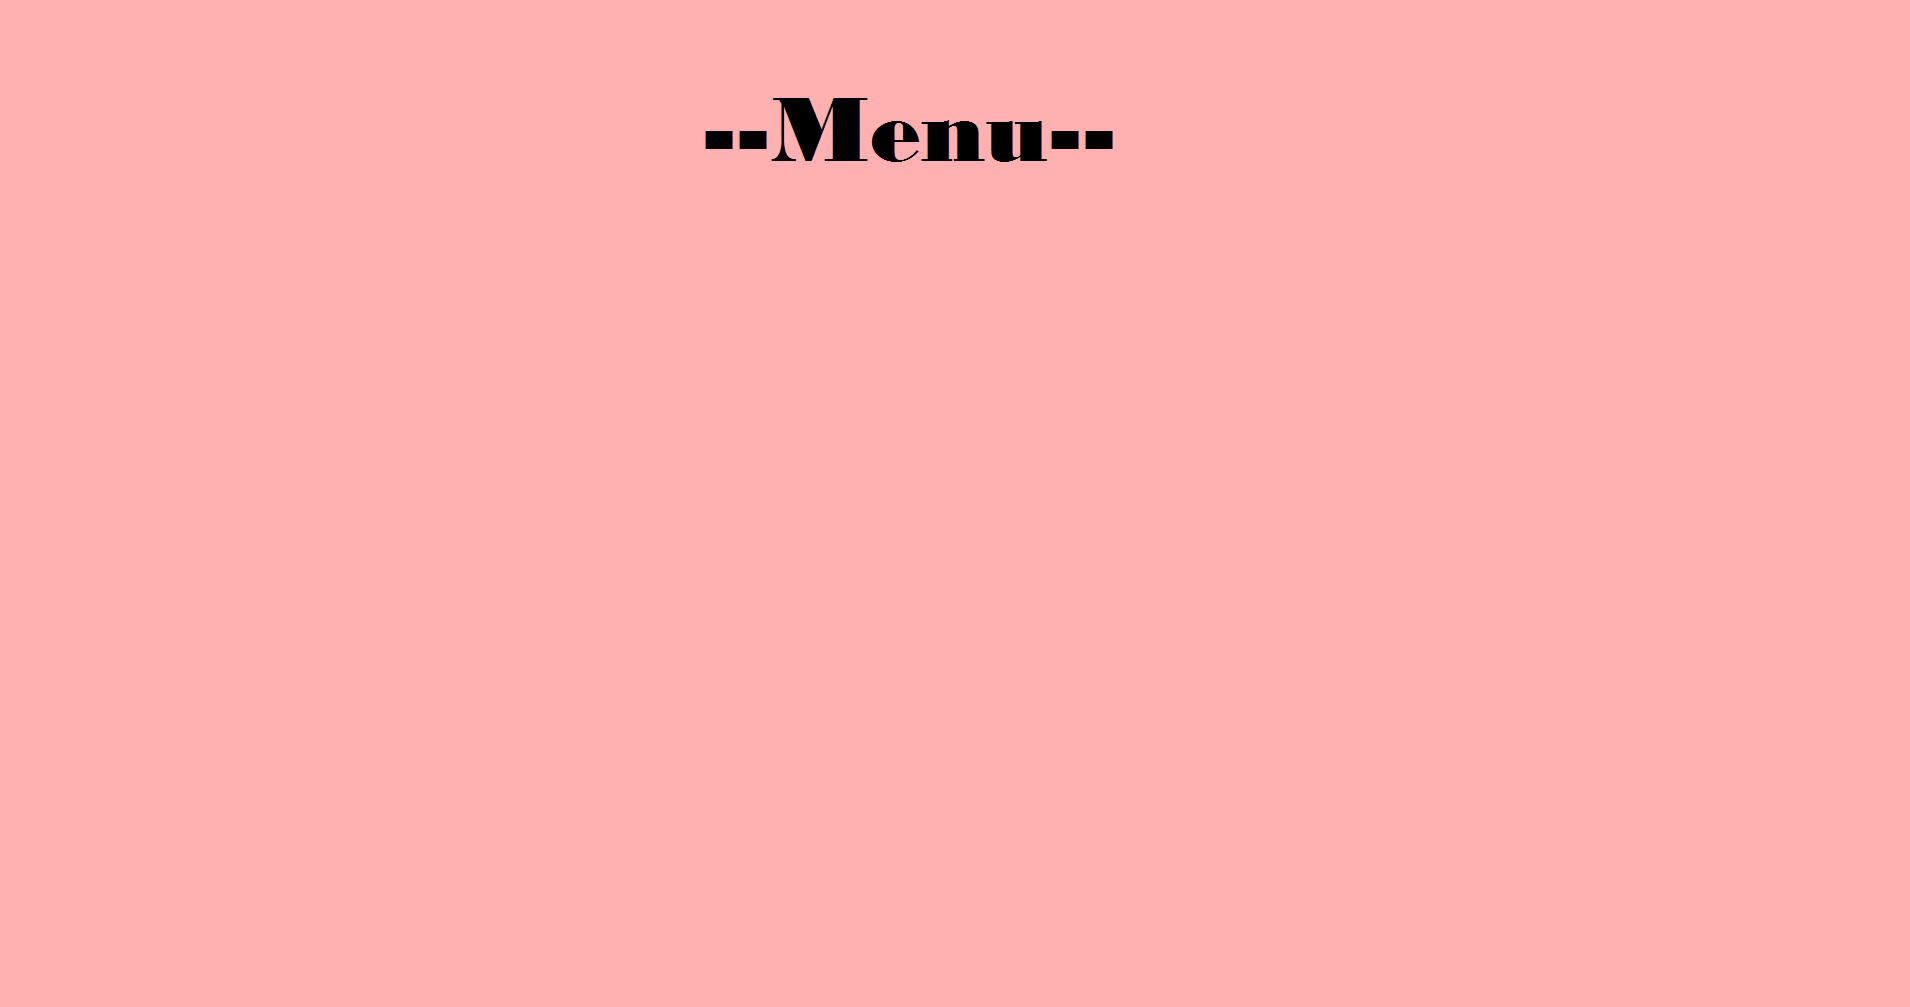
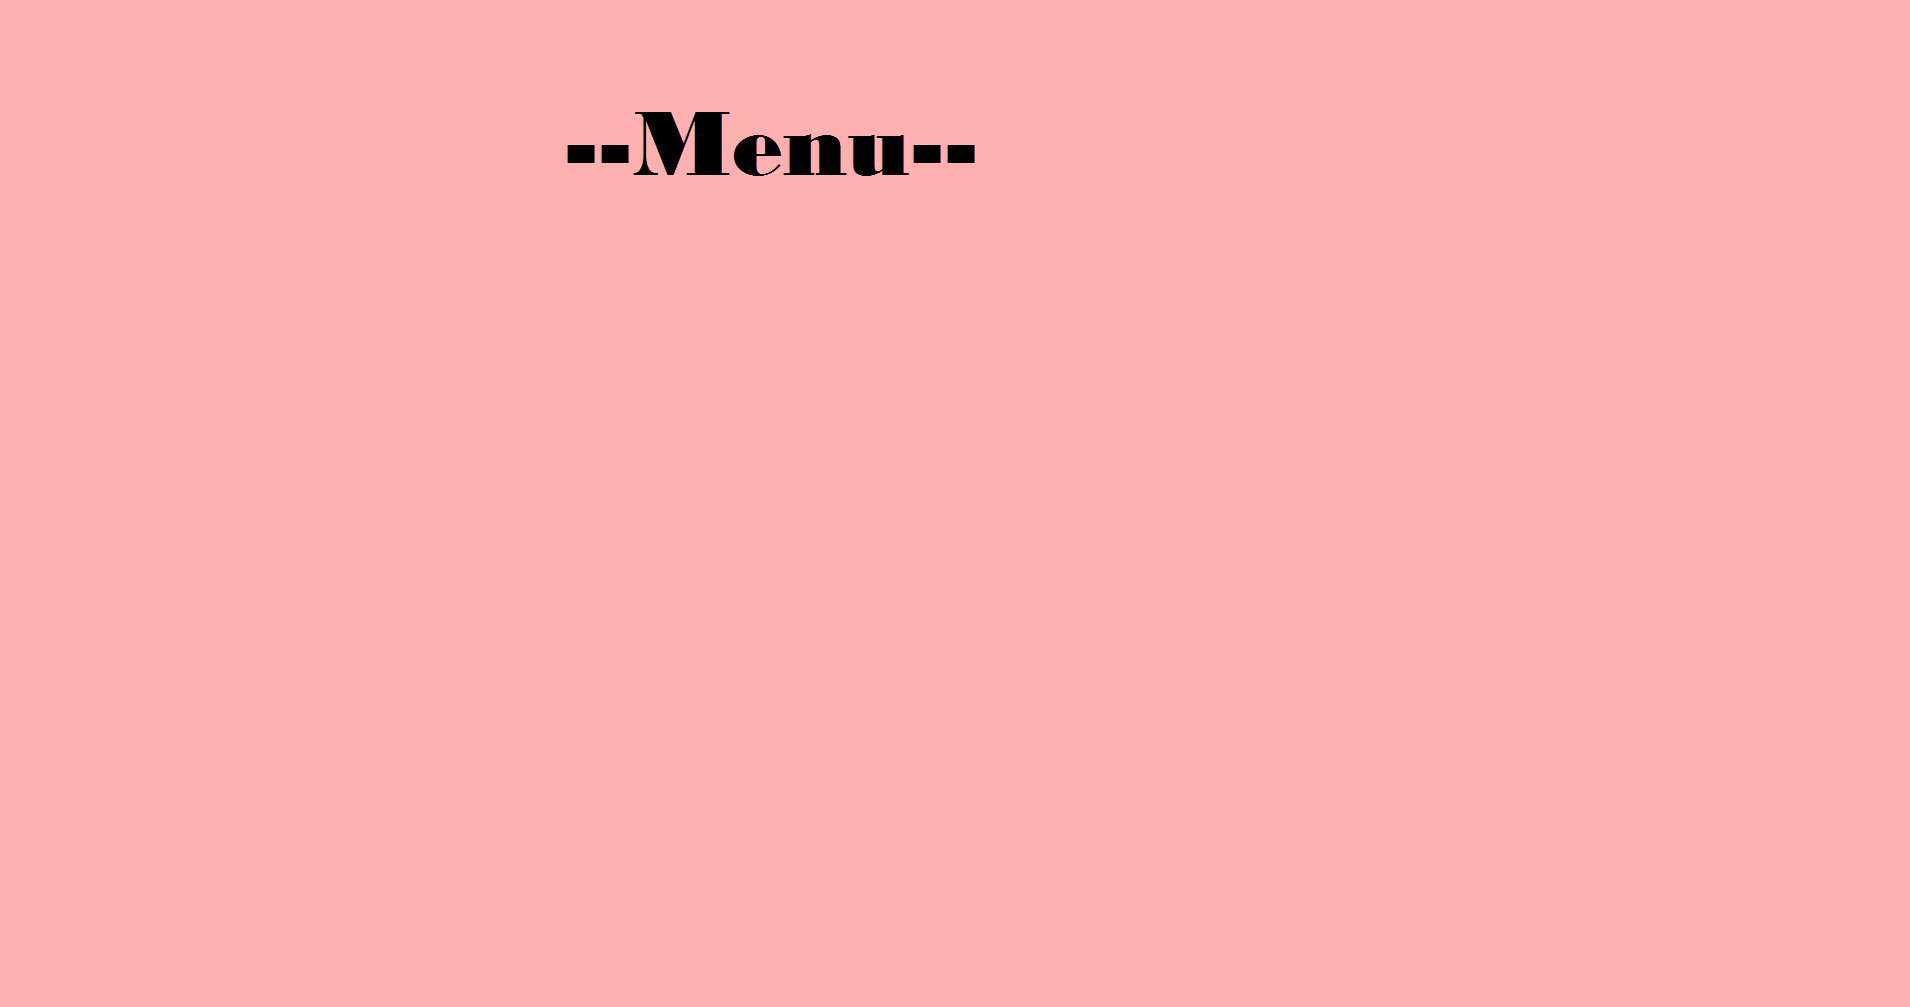
Bootjes toegevoegd

Changed region(s): [[0.278, 0.0924, 0.5869, 0.1847]]

diff --git a/Project2 verbeterd/game.py b/Project2 verbeterd/game.py
@@ -2,8 +2,8 @@ import pygame
 import functions
 pygame.init()
 
-width=1700
-height=800
+width = 1551
+height = 800
 screen=pygame.display.set_mode((width,height))
 pygame.display.update()
 
@@ -12,10 +12,10 @@ def Game():
     game=True
     while game:
         functions.insert_image('menu.png', 0,0)
-        functions.button((0, 89, 90), 800, 300, 200, 70, 'button3.png',functions.game_loop)
-        functions.button((0, 89, 90), 800, 400, 200, 70, 'button2.png',functions.rules_screen)
-        functions.button((0, 89, 90), 800, 500, 200, 70, 'button1.png',functions.see_highscores)
-        functions.button((0, 89, 90), 800, 600, 200, 70, 'button4.png',exit)
+        functions.button((0, 89, 90), 651, 300, 200, 70, 'button3.png',functions.game_loop)
+        functions.button((0, 89, 90), 651, 400, 200, 70, 'button2.png',functions.rules_screen)
+        functions.button((0, 89, 90), 651, 500, 200, 70, 'button1.png',functions.see_highscores)
+        functions.button((0, 89, 90), 651, 600, 200, 70, 'button4.png',exit)
         for event in pygame.event.get():
             if event.type == pygame.QUIT:
                 pygame.quit()
